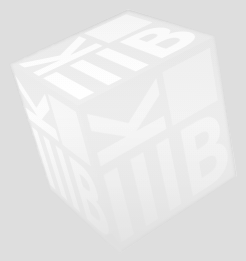
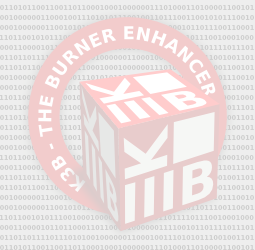
* Rob made a new splash and a new bg pic. nice! * Fixed theme loading.
svn path=/trunk/extragear/multimedia/k3b/; revision=642792

Changed region(s): [[0.0854, 0.056, 0.9106, 0.924], [0.0569, 0.308, 0.0854, 0.336]]

diff --git a/src/k3bthememanager.cpp b/src/k3bthememanager.cpp
@@ -1,4 +1,4 @@
-/* 
+/*
  *
  * $Id$
  * Copyright (C) 2003 Sebastian Trueg <trueg@k3b.org>
@@ -64,7 +64,7 @@ const QPixmap& K3bTheme::pixmap( const QString& name ) const
   // try loading the image
   if( QFile::exists( m_path + name ) )
     return *m_pixmapMap.insert( name, QPixmap( m_path + name ) );
-    
+
   kdDebug() << "(K3bTheme) " << m_name << ": could not load image " << name << endl;
 
   return m_emptyPixmap;
@@ -200,8 +200,8 @@ void K3bThemeManager::readConfig( KConfigBase* c )
   QString defaultTheme = generalOptions.readEntry( "default theme", "quant" );
 
   K3bVersion configVersion( generalOptions.readEntry( "config version", "0.1" ) );
-  if( configVersion >= K3bVersion("1.0") )
-    setCurrentTheme( KConfigGroup( c, "General Options" ).readEntry( "current theme", defaultTheme ) );
+  if( configVersion >= K3bVersion("0.98") )
+    setCurrentTheme( generalOptions.readEntry( "current theme", defaultTheme ) );
   else
     setCurrentTheme( defaultTheme );
 }
@@ -232,7 +232,7 @@ void K3bThemeManager::setCurrentTheme( K3bTheme* theme )
     if( theme != d->currentTheme ) {
       d->currentTheme = theme;
       d->currentThemeName = theme->name();
-      
+
       emit themeChanged();
       emit themeChanged( theme );
     }

diff --git a/src/k3bapplication.cpp b/src/k3bapplication.cpp
@@ -105,10 +105,10 @@ void K3bApplication::init()
 
       splash = new K3bSplash( 0 );
       splash->connect( this, SIGNAL(initializationInfo(const QString&)), SLOT(addInfo(const QString&)) );
-      
+
       // kill the splash after 5 seconds
       QTimer::singleShot( 5000, splash, SLOT(close()) );
-      
+
       splash->show();
       qApp->processEvents();
     }
@@ -131,7 +131,7 @@ void K3bApplication::init()
   m_core->interface()->setMainWindow( m_mainWindow );
 
   if( isRestored() ) {
-    // we only have one single mainwindow to restore  
+    // we only have one single mainwindow to restore
     m_mainWindow->restore(1);
   }
   else {
@@ -390,9 +390,7 @@ void K3bApplication::Core::readSettings( KConfig* cnf )
   if( !c )
     c = config();
 
-  K3bVersion configVersion( KConfigGroup( cnf, "General Options" ).readEntry( "config version", "0.1" ) );
-  if( configVersion >= K3bVersion("1.0") )
-    m_themeManager->readConfig( config() );
+  m_themeManager->readConfig( config() );
 }
 
 
